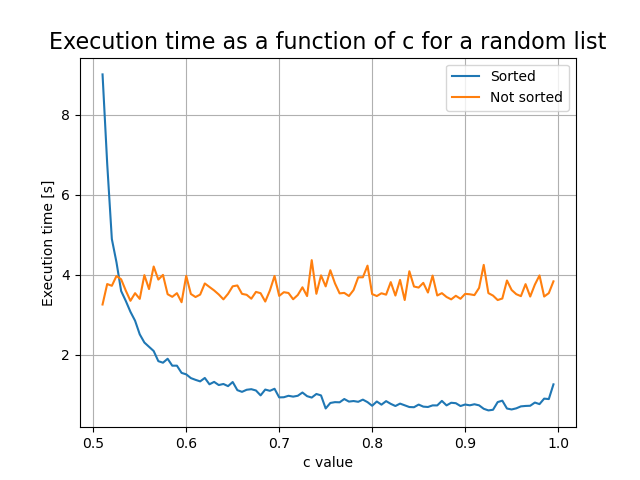
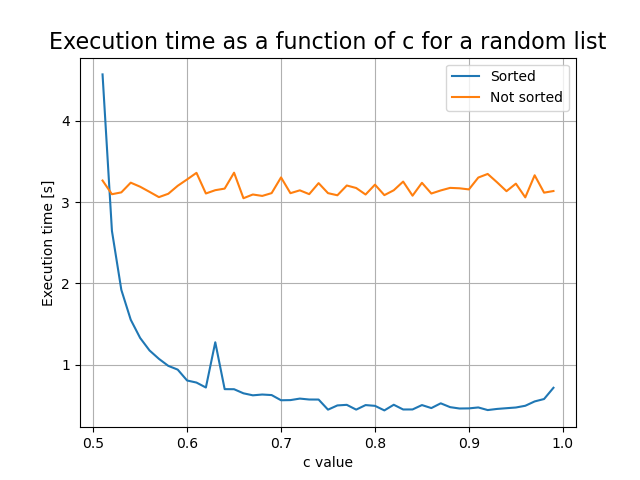
ryzen bench 6

diff --git a/lab3/code/tests.py b/lab3/code/tests.py
@@ -258,7 +258,7 @@ class tests:
 
 if __name__ == "__main__":
     test = tests()
-    test.c_interval = 0.005
+    test.c_interval = 0.01
     test.length_range[0] = 10**4
     test.validate_functions()
     assert test.results["validate_functions"][0]
